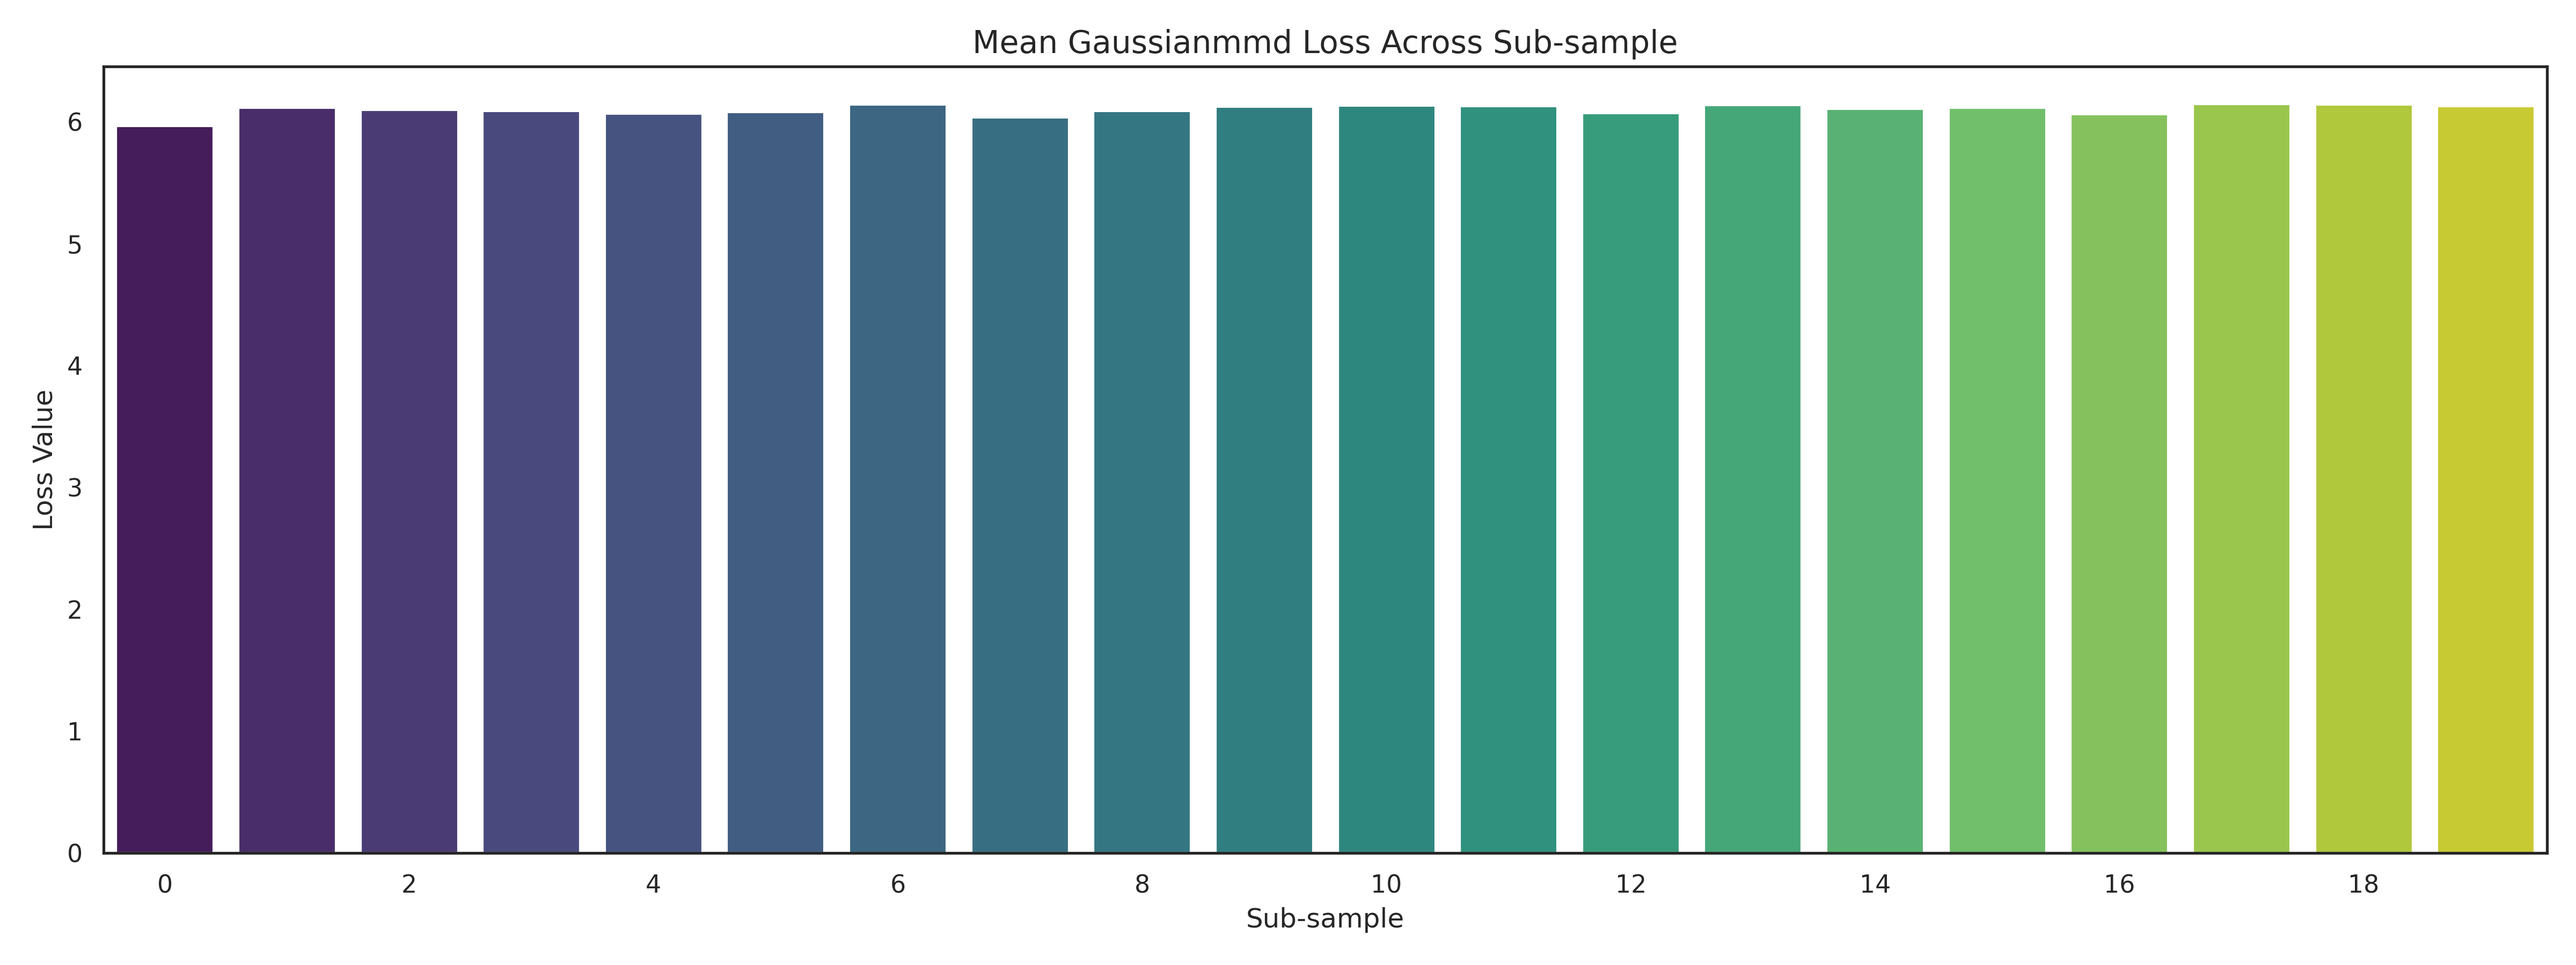
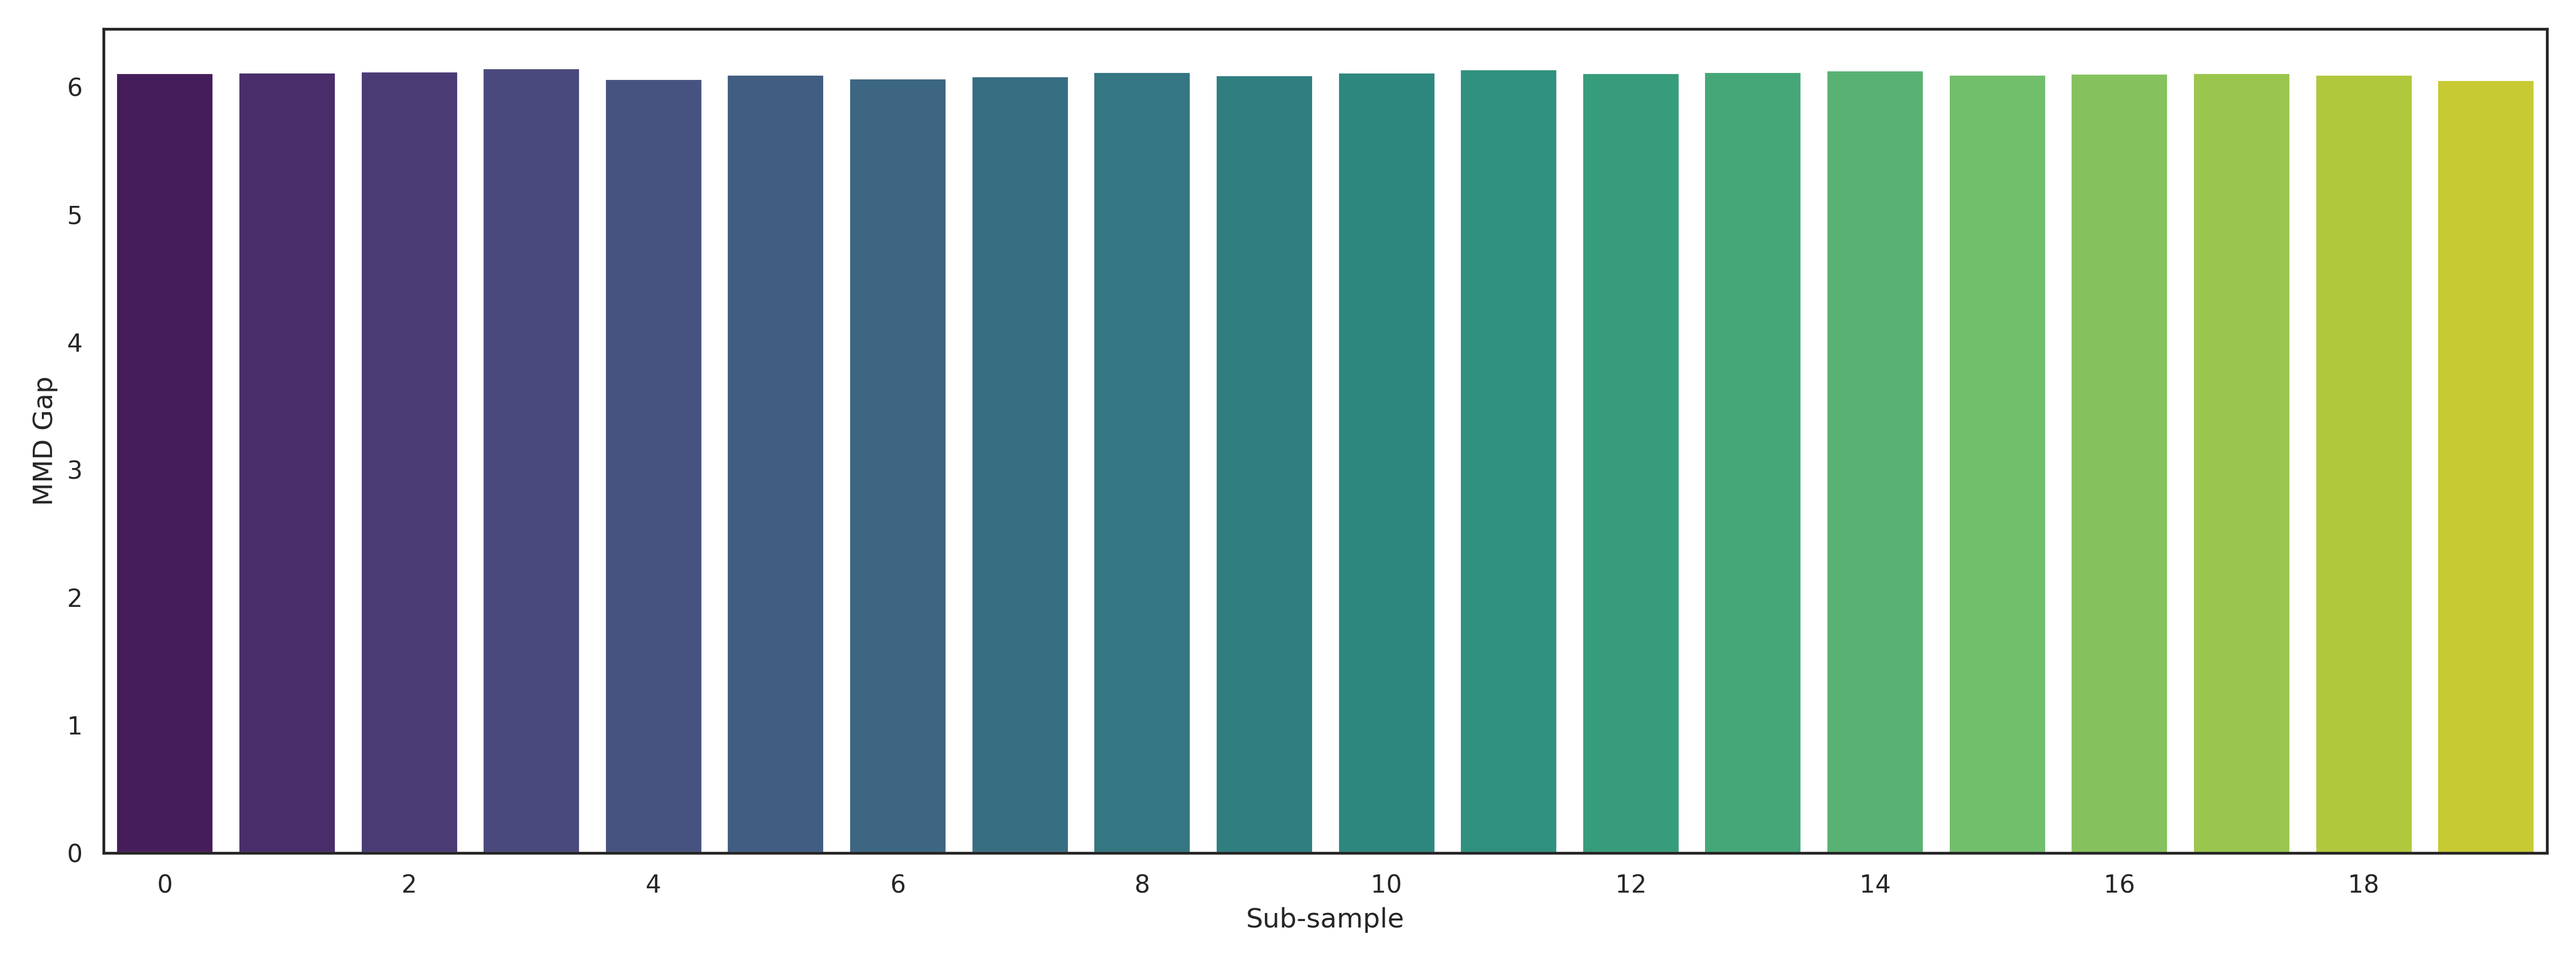
add

Changed region(s): [[0.0312, 0.0311, 1.0, 0.1556], [0.0, 0.4044, 0.0312, 0.5289]]

diff --git a/gap/gap-visualize.py b/gap/gap-visualize.py
@@ -86,9 +86,19 @@ def visualize_losses(json_file, output_dir="vis", sample_size=20):
         plt.figure(figsize=(width_inches, 6))
         # 绘制柱状图
         sns.barplot(x=subs, y=data[loss_type], hue=subs, palette="viridis", dodge=False, legend=False)
-        plt.title(f"{loss_type.replace('_', ' ').title()} Across Sub-sample", fontsize=14)
+        
+        # Simplified y-axis label mapping
+        loss_name_map = {
+            "mean_gram_loss": "Gram Gap",
+            "mean_l2_loss": "L2 Gap",
+            "mean_gaussianmmd_loss": "MMD Gap",
+            "mean_linearmmd_loss": "L-MMD Gap",
+            "mean_dss_loss": "DSS Gap",
+            "mean_swd_loss": "SWD Gap"
+        }
+        # plt.title(f"{loss_type.replace('_', ' ').title()} Across Sub-sample", fontsize=14)
         plt.xlabel("Sub-sample", fontsize=12)
-        plt.ylabel("Loss Value", fontsize=12)
+        plt.ylabel(loss_name_map[loss_type], fontsize=12)  # Use simplified name
         
         # 仅显示部分索引，防止过于密集
         step = max(1, len(subs) // 10)  # 每 10% 取一个刻度
